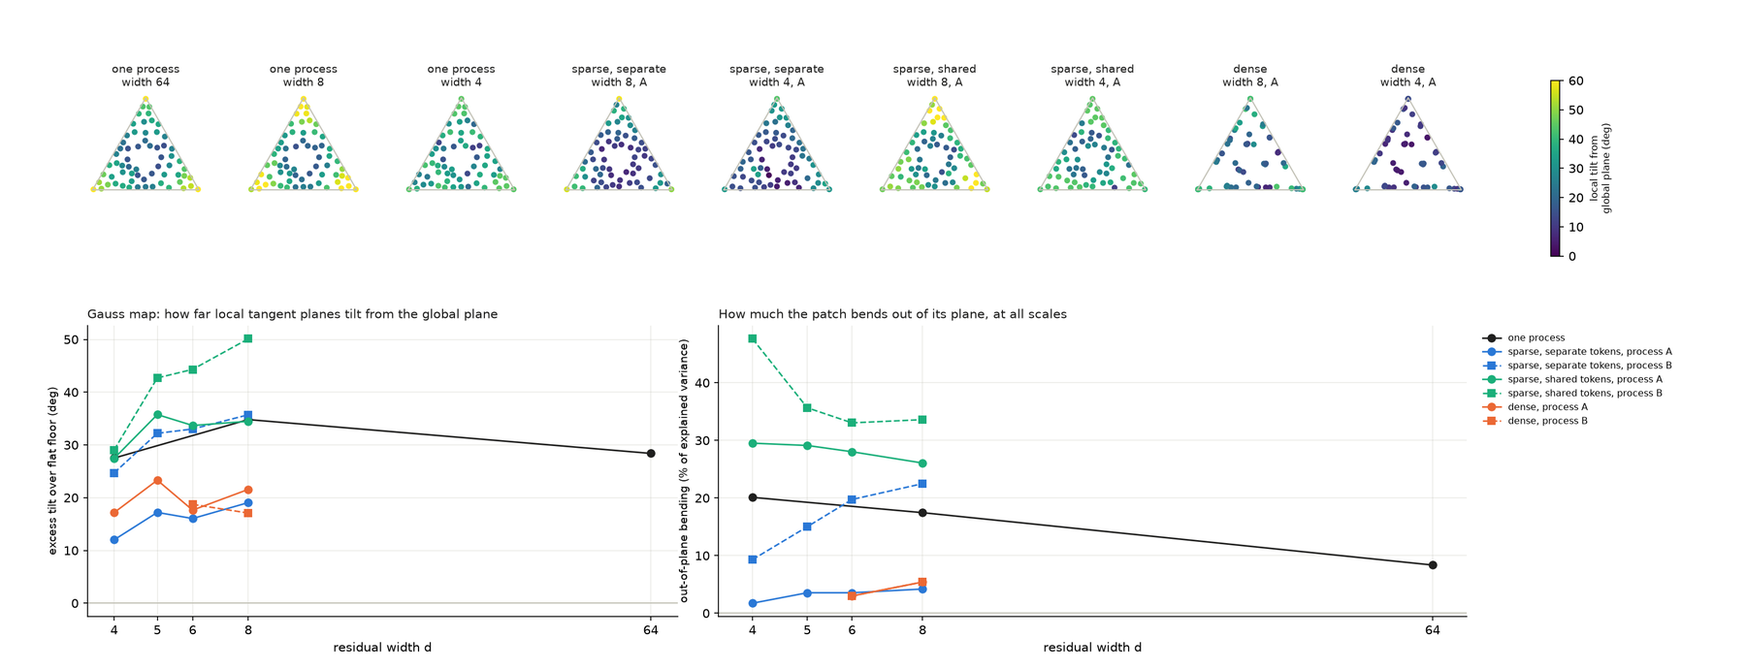
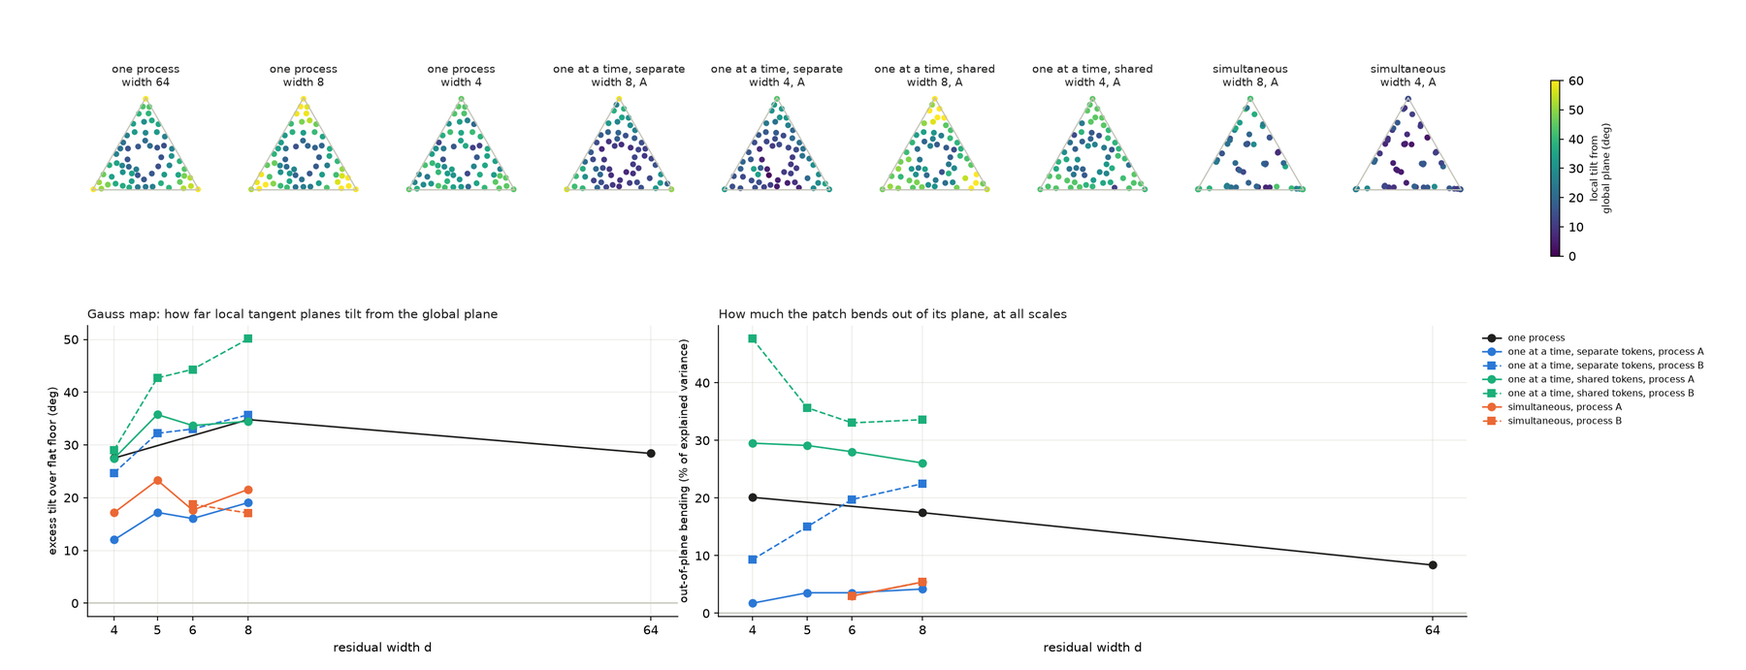
Update project page for revised README and reference experiment
Adopt the README's 'one at a time' and 'simultaneous' terminology, the
reworded introduction, summary and setup, the new comparison with two
theoretical references and its figure, the regenerated figures, and the
shortened 'How this was made'.

Claude-Session: https://claude.ai/code/session_01PqMz1ave7mdXkcTpPwbk6k

diff --git a/_projects/1_squeezing-belief-geometries.md b/_projects/1_squeezing-belief-geometries.md
@@ -7,12 +7,16 @@ importance: 1
 github: https://github.com/KyleJWright/squeezing-belief-geometries
 ---
 
-Reproducing the belief-state simplex of Shai et al. (2024) in a small transformer, then squeezing it: what happens to the
-simplex when the residual stream is too narrow to hold it, and when two processes must share a stream with room for one
-but not both?
+This project starts by reproducing the belief-state simplex of Shai et al. (2024) in a small transformer. As an
+extension, I wanted to see what happens to belief states when the model is squeezed: when the residual stream is too
+narrow to hold one simplex, or must hold two processes with room for only one.
 
-The short answer: **the model keeps what its output needs and, as room runs out, gives up the rest, cheapest first.** The
-limit is set by what the output layer can read, not by how many directions fit in the space.
+The short answer: **the model keeps what its output needs and, as room runs out, gives up the rest, cheapest (in terms of
+next-token cross-entropy loss) first.** The limit is set by what the output layer can read, not by how many directions
+fit in the space.
+
+**Note:** Related questions (superposition, belief-state geometry) are active research topics; this project is a hands-on
+exploration of them in a setting small enough to compute everything exactly.
 
 **Code and full write-up:** [github.com/KyleJWright/squeezing-belief-geometries](https://github.com/KyleJWright/squeezing-belief-geometries).
 The repository README has every table, and
@@ -39,25 +43,31 @@ I'm interested in better understanding how this squeezing works in the setting o
 ## Summary
 
 **The main finding.** The model keeps what the next-token prediction needs and, as room runs out, gives up everything
-else, cheapest first. Each experiment shows a different piece of this:
+else, cheapest first. Here "cheapest" means costing the least next-token loss to give up. This is measured directly for
+the simultaneous case (section 3) and inferred from the loss numbers elsewhere. Each experiment shows a different piece
+of this:
 
 - **Reproduction.** A 4-layer transformer trained on the Mess3 process carries the fractal belief simplex in its final
   residual stream ($$R^2 = 1.00$$ on held-out prefixes); shuffling beliefs before fitting gives $$R^2 = 0.00$$.
 - **One process, too narrow.** Fine fractal detail goes first, at almost no cost in loss. The simplex survives down to
-  width 4 and fails at width 3, where the decoded beliefs collapse onto a curve. The threshold matches what the output
-  layer can read: after LayerNorm, a model of width $$d$$ can produce a family of predictions with at most $$d-2$$
-  parameters, and Mess3 needs 2.
-- **Two processes at once (dense).** As width falls, the model drops one process entirely, and it is the one whose memory
+  width 4 and fails at width 3, where the decoded beliefs collapse onto a curve. The threshold matches the _readout
+  limit_: after the final LayerNorm, the output head of a model of width $$d$$ can produce a family of predictions with at
+  most $$d-2$$ parameters, and Mess3 needs 2.
+- **Two processes simultaneously.** As width falls, the model drops one process entirely, and it is the one whose memory
   is worth ~30 times less in loss. Dropping it costs almost exactly what that memory is worth (0.50% of the optimal loss).
-- **Two processes, one at a time (sparse).** Both survive to width 4. With one shared set of tokens the two beliefs
-  collapse onto a single plane at every width, even with room for two, because the output needs only one prediction, and
-  it costs nothing measurable.
+- **Two processes, one at a time.** Each sequence comes from one process, and both beliefs survive down to width 4. When
+  the processes use separate tokens, their belief patches point in similar directions but sit apart. When they share the
+  same three tokens, the patches lie on top of each other, with the same directions and the same centre, at every width.
+  This holds even at width 8, where there is room to keep them apart. A likely reason is that either way the model must
+  predict a distribution over the same three tokens, so one patch can serve both. Sharing costs nothing measurable: loss
+  stays within 0.15% of optimal down to width 4, the same as with separate tokens.
 - **Which process is running?** With room to spare (width 8) the model also tracks which process is running, as well as an
-  optimal observer can, in one extra direction. Squeezed, that is the first thing to go: at width 4 the model learns it
-  early in training and then gives it up.
-- **Packing was the wrong lens.** I expected the Grassmannian packing problem to describe how the beliefs share the space.
-  It mostly does not: when both beliefs are kept their planes are near-orthogonal, but the readout limit always binds
-  first, and in the sparse case the problem is not a packing problem at all.
+  optimal observer can, in one extra direction: measured against the exact 6-state belief, it carries as much of it as the
+  prediction plus the process posterior would ($$R^2$$ 0.913 for both), never the full belief. Squeezed, that extra
+  direction is the first thing to go: at width 4 the model learns it early in training and then gives it up.
+- **Packing was not the constraint.** I initially expected the Grassmannian packing problem to describe how the beliefs
+  share the space. It mostly does not: when both beliefs are kept their planes are near-orthogonal, but the readout limit
+  always binds first, and in the one-at-a-time case the problem is not a packing problem at all.
 - **The planes are not flat.** Measured with a Gauss map, every belief patch is a wrinkled sheet whose local tangent
   planes tilt 12–50° from its best-fit plane. Linear decoders never notice, because the wrinkles lie outside the plane.
   The planes are the linearly readable summary of curved patches.
@@ -72,8 +82,10 @@ Two lessons from this toy setting may be worth testing more widely.
   narrow model says little about whether the variable matters to the task or can be learned, and a signal found in a wide
   model need not survive in a narrower one. Methods that look for latent knowledge with probes need to allow for this.
 - **What gets superposed or dropped is decided by the readout.** The two behaviours of Elhage et al.'s toy models
-  reappear: dense features force the least valuable one out, sparse ones share directions. But here what decides is what
-  the output needs and what each piece is worth, not how many vectors fit in the space.
+  reappear: their _dense_ features (here, processes running simultaneously) force the least valuable one out, and their
+  _sparse_ ones (one at a time) share directions. But here what decides is what the output needs and what each piece is
+  worth, not how many vectors fit in the space. With separate tokens the one-at-a-time patches are told apart by an offset
+  supplied by the token embeddings; with shared tokens they share one plane outright.
 
 These are small models trained on a toy process; whether the lessons carry over is an open question.
 
@@ -83,22 +95,28 @@ These are small models trained on a toy process; whether the lessons carry over 
 parametrised by $$(x, \alpha)$$. The _belief_ $$\eta$$ is the posterior over hidden states given the tokens seen so far;
 it lives in a triangle, and over all prefixes it traces out a fractal.
 
-**Model.** A pre-LayerNorm transformer with 4 layers, one attention head and context length 10, trained on freshly
-sampled sequences. Only the residual width $$d$$ is varied; width 64 is the size used by Shai et al.
+**Model.** A small transformer: 4 layers, each with one attention head (which lets a position draw on earlier tokens)
+and a small two-layer network (MLP, 256 hidden units). It reads up to 10 tokens. Each position carries a vector of $$d$$
+numbers, the residual stream. Every layer adds to it, and it is normalised by a LayerNorm before each read. Only the width
+$$d$$ is varied; width 64 is the size used by Shai et al.
 
-**Simplex images.** For every distinct prefix, take the final residual stream, fit an affine map to the exact belief on
-half the prefixes, and plot the other half in the triangle, coloured by the true belief. Two numbers go with each image:
+**Training.** Next-token prediction on freshly sampled sequences (256 per step, never repeated), with the Adam optimiser
+and a learning rate that decays from $$10^{-3}$$: 20,000 steps for one process, 15,000 for two.
+
+**Simplex images.** For every distinct prefix, take the final residual stream, before the last LayerNorm, fit an affine
+least-squares regression (with a small penalty) to the exact belief on half the prefixes, and plot the other half in the triangle, coloured by the true belief. Two numbers go with each image:
 
 - **$$R^2$$:** the fraction of belief variance recovered on held-out prefixes.
 - **Beyond last token:** the last token alone predicts about 68% of a Mess3 belief, which gives three coarse blobs. This
   measures how much of the rest, the fine structure that needs memory of earlier tokens, the model captures: 1 is
   perfect, and 0 or below means no memory beyond the last token.
 
-**Two processes.** Process A has $$(x, \alpha) = (0.05, 0.85)$$ and B has $$(0.15, 0.60)$$. In the **sparse** regime each
-sequence comes from one process, chosen at random. It comes in two versions: with **separate tokens** for each process,
+**Two processes.** Process A has $$(x, \alpha) = (0.05, 0.85)$$ and B has $$(0.15, 0.60)$$. In the **one-at-a-time**
+regime each sequence comes from one process, chosen at random. It comes in two versions: with **separate tokens** for each process,
 so every token reveals the process, and with one **shared** set of 3 tokens, so the model must infer the process from the
-statistics of what it has seen. In the **dense** regime both run side by side, and each token is the pair of their
-tokens.
+statistics of what it has seen. In the **simultaneous** regime both run side by side, and each token is the pair of their
+tokens. In the language of Elhage et al. (2022), one at a time corresponds to _sparse_ features and simultaneous to
+_dense_ ones.
 
 All numbers are means over 3 seeds; images are seed 0.
 
@@ -136,47 +154,47 @@ only finitely many beliefs, and nothing forces the network's map from prefixes t
 {% include figure.liquid loading="lazy" path="assets/img/projects/sbg-simplex-pair.png" class="img-fluid rounded z-depth-1" zoomable=true %}
 
 <div class="caption">
-  Two Mess3 processes squeezed together as the residual width shrinks. Left: sparse, one process per sequence. Right:
-  dense, both processes every token.
+  Two Mess3 processes squeezed together as the residual width shrinks. Left: one at a time, one process per sequence.
+  Right: simultaneous, both processes every token.
 </div>
 
-Beyond last token, per process (sparse here means separate tokens; the shared-token version is below):
+Beyond last token, per process (one at a time here means separate tokens; the shared-token version is below):
 
-| Width | Sparse A | Sparse B | Dense A | Dense B |
-| ----- | -------- | -------- | ------- | ------- |
-| 8     | 0.96     | 0.89     | 0.94    | 0.74    |
-| 6     | 0.94     | 0.85     | 0.85    | 0.22    |
-| 5     | 0.94     | 0.69     | 0.80    | −1.70   |
-| 4     | 0.91     | 0.54     | 0.75    | −3.35   |
-| 3     | −0.34    | 0.08     | 0.44    | −3.76   |
+| Width | One at a time: A | One at a time: B | Simultaneous: A | Simultaneous: B |
+| ----- | ---------------- | ---------------- | --------------- | --------------- |
+| 8     | 0.96             | 0.89             | 0.94            | 0.74            |
+| 6     | 0.94             | 0.85             | 0.85            | 0.22            |
+| 5     | 0.94             | 0.69             | 0.80            | −1.70           |
+| 4     | 0.91             | 0.54             | 0.75            | −3.35           |
+| 3     | −0.34            | 0.08             | 0.44            | −3.76           |
 
 Loss above optimum:
 
-| Width                   | 8     | 6     | 5     | 4     | 3    | 2   |
-| ----------------------- | ----- | ----- | ----- | ----- | ---- | --- |
-| Sparse, separate tokens | 0.02% | 0.03% | 0.04% | 0.14% | 1.6% | 90% |
-| Sparse, shared tokens   | 0.01% | 0.03% | 0.05% | 0.15% | 2.0% | 13% |
-| Dense                   | 0.03% | 0.07% | 0.28% | 0.50% | 1.6% | 16% |
+| Width                          | 8     | 6     | 5     | 4     | 3    | 2   |
+| ------------------------------ | ----- | ----- | ----- | ----- | ---- | --- |
+| One at a time, separate tokens | 0.02% | 0.03% | 0.04% | 0.14% | 1.6% | 90% |
+| One at a time, shared tokens   | 0.01% | 0.03% | 0.05% | 0.15% | 2.0% | 13% |
+| Simultaneous                   | 0.03% | 0.07% | 0.28% | 0.50% | 1.6% | 16% |
 
-**Sparse: both survive to width 4,** with B losing detail first, and both fail at width 3, the same threshold as for one
+**One at a time: both survive to width 4,** with B losing detail first, and both fail at width 3, the same threshold as for one
 process. Only one process is active at a time, so the model never needs more than one 2-parameter family of predictions
 at once.
 
-**Dense: one process is given up.** B is already weak at width 6 and gone below it; the large negative values mean the
+**Simultaneous: one process is given up.** B is already weak at width 6 and gone below it; the large negative values mean the
 decoder cannot even recover B's last token, so B is dropped, not kept at low resolution. Two beliefs active at once need
 a 4-parameter family of predictions, so by the same heuristic exact prediction needs $$d \ge 6$$; in practice width 6 is
 not quite enough.
 
 **Why B.** B's history is worth about 30 times less in next-token loss than A's (0.002 against 0.061 nats for memory
-beyond the last token), so it is the cheap one to drop. Dropping B entirely costs 0.50% of the dense optimal loss, and
-the width-4 dense models sit at 0.50% above optimum: they predict A almost perfectly and B not at all.
+beyond the last token), so it is the cheap one to drop. Dropping B entirely costs 0.50% of the simultaneous optimal loss, and
+the width-4 simultaneous models sit at 0.50% above optimum: they predict A almost perfectly and B not at all.
 
-### Sparse with one shared set of tokens
+### One at a time, with one shared set of tokens
 
 {% include figure.liquid loading="lazy" path="assets/img/projects/sbg-simplex-shared.png" class="img-fluid rounded z-depth-1" zoomable=true %}
 
 <div class="caption">
-  Sparse regime with separate tokens per process (left) and one shared set of tokens (right), as the residual width
+  One-at-a-time regime with separate tokens per process (left) and one shared set of tokens (right), as the residual width
   shrinks.
 </div>
 
@@ -205,8 +223,8 @@ relative to each other, and is each patch flat? Everything here is measured in t
 of dimension $$d - 1$$.
 
 The starting hypothesis was the cartoon of superposition: two beliefs squeezed into too little room should arrange their
-planes as an optimal Grassmannian packing, as far apart as the space allows. **This turned out to be mostly the wrong
-lens**, for two reasons: the readout limit binds before packing ever does, and the patches are not flat planes but
+planes as an optimal Grassmannian packing, as far apart as the space allows. **This turned out not to describe what the
+models do**, for two reasons: the readout limit binds before packing ever does, and the patches are not flat planes but
 wrinkled sheets.
 
 ### Overlap between processes
@@ -219,30 +237,30 @@ linear reader, which is how every later layer first reads the stream.
 
 <div class="caption">
   Left: largest overlap between the two learned belief planes against the optimal Grassmannian packing and the Rankin
-  bound, for sparse (separate and shared tokens) and dense models. Right: in the sparse regime, how far apart the two
-  belief patches sit, in units of their spread.
+  bound, for one-at-a-time (separate and shared tokens) and simultaneous models. Right: in the one-at-a-time regime, how
+  far apart the two belief patches sit, in units of their spread.
 </div>
 
-| Width | Optimum | Random planes | Sparse, separate tokens | Offset separation | Sparse, shared tokens | Offset separation | Dense         |
-| ----- | ------- | ------------- | ----------------------- | ----------------- | --------------------- | ----------------- | ------------- |
-| 3     | 1       | 1             | 1.00                    | 2.4               | 1.00                  | 0.05              | –             |
-| 4     | 0.50    | 0.67          | 0.75                    | 5.9               | 0.94                  | 0.17              | –             |
-| 5     | 0       | 0.50          | 0.29                    | 6.0               | 0.905                 | 0.21              | 0.26 (1 seed) |
-| 6     | 0       | 0.40          | 0.14                    | 6.0               | 0.94                  | 0.33              | 0.013         |
-| 8     | 0       | 0.29          | 0.11                    | 5.9               | 0.97                  | 0.38              | 0.020         |
+| Width | Optimum | Random planes | One at a time, separate tokens | Offset separation | One at a time, shared tokens | Offset separation | Simultaneous  |
+| ----- | ------- | ------------- | ------------------------------ | ----------------- | ---------------------------- | ----------------- | ------------- |
+| 3     | 1       | 1             | 1.00                           | 2.4               | 1.00                         | 0.05              | –             |
+| 4     | 0.50    | 0.67          | 0.75                           | 5.9               | 0.94                         | 0.17              | –             |
+| 5     | 0       | 0.50          | 0.29                           | 6.0               | 0.905                        | 0.21              | 0.26 (1 seed) |
+| 6     | 0       | 0.40          | 0.14                           | 6.0               | 0.94                         | 0.33              | 0.013         |
+| 8     | 0       | 0.29          | 0.11                           | 5.9               | 0.97                         | 0.38              | 0.020         |
 
 _Offset separation_ is the distance between the centres of the two processes' patches, divided by their typical
 spread; _random planes_ is the expected overlap of independent random planes, $$2/(d-1)$$.
 
-- **Dense: near-orthogonal, but never constrained.** Whenever both beliefs are kept (all seeds at widths 6 and 8) the
+- **Simultaneous: near-orthogonal, but never constrained.** Whenever both beliefs are kept (all seeds at widths 6 and 8) the
   planes are nearly orthogonal, overlap 0.01–0.02 against 0.3–0.4 for random planes. But orthogonality is easy there: it
-  is possible from $$d \ge 5$$, and the readout bound $$d \ge 6$$ is reached first. At width 5 only one seed keeps B at all
+  is possible from $$d \ge 5$$, and the readout limit $$d \ge 6$$ is reached first. At width 5 only one seed keeps B at all
   (overlap 0.26). Near-orthogonality may also simply be inherited from the optimal logits, whose A and B parts lie in
   orthogonal subspaces; the data cannot tell these apart.
-- **Sparse, separate tokens: an arrangement, not a packing.** Overlaps are far above the optimum, yet both processes
+- **One at a time, separate tokens: an arrangement, not a packing.** Overlaps are far above the optimum, yet both processes
   decode well and loss is within 0.14% of optimal: the patches share directions but sit about 6 spreads apart. That
   separation comes from the token embeddings, not from anything the model had to learn, as the shared-token models show.
-- **Sparse, shared tokens: one plane for two beliefs.** Without separate tokens the offset drops to 0.05–0.4 spreads, and
+- **One at a time, shared tokens: one plane for two beliefs.** Without separate tokens the offset drops to 0.05–0.4 spreads, and
   the planes coincide (overlap 0.9–0.97) at every width, including width 8, where there is room for two. Whichever process
   is running, the prediction is a distribution over the same 3 tokens, and one plane carries it for both, at no
   measurable cost in loss. Section 5 asks whether the model also tracks which process is running.
@@ -269,17 +287,17 @@ that direction is projected away. So the bending is measured directly.
   width (bottom).
 </div>
 
-| Model                      | Excess tilt, width 8 | width 4 | Bending, width 8    | width 4 |
-| -------------------------- | -------------------- | ------- | ------------------- | ------- |
-| One process                | 34.8°                | 27.5°   | 17.5%               | 20.1%   |
-| Sparse, separate tokens, A | 19.1°                | 12.0°   | 4.2%                | 1.7%    |
-| Sparse, separate tokens, B | 35.7°                | 24.7°   | 22.5%               | 9.3%    |
-| Sparse, shared tokens, A   | 34.5°                | 27.4°   | 26.1%               | 29.5%   |
-| Sparse, shared tokens, B   | 50.1°                | 29.1°   | 33.6%               | 47.6%   |
-| Dense, A                   | 21.6°                | 17.2°   | 5.4% (both beliefs) | –       |
+| Model                             | Excess tilt, width 8 | width 4 | Bending, width 8    | width 4 |
+| --------------------------------- | -------------------- | ------- | ------------------- | ------- |
+| One process                       | 34.8°                | 27.5°   | 17.5%               | 20.1%   |
+| One at a time, separate tokens, A | 19.1°                | 12.0°   | 4.2%                | 1.7%    |
+| One at a time, separate tokens, B | 35.7°                | 24.7°   | 22.5%               | 9.3%    |
+| One at a time, shared tokens, A   | 34.5°                | 27.4°   | 26.1%               | 29.5%   |
+| One at a time, shared tokens, B   | 50.1°                | 29.1°   | 33.6%               | 47.6%   |
+| Simultaneous, A                   | 21.6°                | 17.2°   | 5.4% (both beliefs) | –       |
 
-(Excess tilt is the mean tilt above the flat floor, which is about 2–7°. Bending is undefined for dense models of width 5
-or less, where the two planes fill the readable space.)
+(Excess tilt is the mean tilt above the flat floor, which is about 2–7°. Bending is undefined for simultaneous models of width
+5 or less, where the two planes fill the readable space.)
 
 - **No patch is flat.** Local tangent planes tilt 12–50° beyond the flat floor, in every model.
 - **Wrinkled, not bowed.** Quadratic terms in the belief capture only a few percent of the activation variance, far less
@@ -313,7 +331,8 @@ prediction is worth far more.
 
 ### Does it track the process?
 
-A ridge probe is fitted from the residual stream to $$\pi$$ at every layer, on the shared-token models of section 3.
+A ridge probe, an affine least-squares regression with a small penalty on the size of its coefficients (chosen on held-out
+data), is fitted from the residual stream to $$\pi$$ at every layer, on the shared-token models of section 3.
 
 {% include figure.liquid loading="lazy" path="assets/img/projects/sbg-probe.png" class="img-fluid rounded z-depth-1" zoomable=true %}
 
@@ -334,7 +353,7 @@ shared belief plane plus a separate direction for $$\pi$$**, as far as linear pr
 low-dimensional end, and not two separate belief models.
 
 As the stream narrows, process tracking is the first thing to go. Loss stays within 0.15% of optimal down to width 4,
-but the probe falls to $$R^2 = 0.12$$ and its accuracy stalls after a few tokens. This fits the readout argument of
+but the probe falls to $$R^2 = 0.12$$ and its accuracy stalls after a few tokens. This fits the readout limit of
 section 2: the output head has $$d - 2$$ dimensions, the prediction needs 2, and only what is left can carry $$\pi$$. At
 width 4 nothing is left. Dropping $$\pi$$ costs little: the optimal prediction already mixes the two processes'
 predictions in proportion to $$\pi$$, so the posterior is folded into the prediction.
@@ -343,8 +362,8 @@ predictions in proportion to $$\pi$$, so the posterior is folded into the predic
 
 Several settings learn a merged description first and split it later (causal-state splitting, deterministic annealing,
 stagewise learning in deep networks), which suggests a hypothesis: the shared-token model first learns one averaged
-process, then splits into two. Shared-token models at widths 8 and 4 were retrained with snapshots through training, and
-every snapshot was analysed in the same way.
+process, then splits into two. Shared-token models at widths 8 and 4 (3 seeds each) were retrained with
+19 snapshots between steps 25 and 15,000, and every snapshot was analysed in the same way.
 
 {% include figure.liquid loading="lazy" path="assets/img/projects/sbg-develop.png" class="img-fluid rounded z-depth-1" zoomable=true %}
 
@@ -373,35 +392,70 @@ The hypothesis is not borne out: the network never splits into two independent m
   usable dimensions. A feature is learned and then squeezed out by a more valuable one.
 - **No sharp transition.** Loss falls smoothly at this snapshot resolution; nothing looks like a sudden phase change.
 
+### Comparison with two theoretical references
+
+The shared-token data is one hidden Markov model with 6 hidden states, (process, state), so two exact reference points can
+be computed.
+
+- **The joint belief.** The exact posterior over the 6 states is the best possible belief state. A linear probe from the
+  residual stream to it measures how much of it a model carries. To read that number, the same probe is fitted from
+  idealised representations that hold only part of it: the next-token prediction alone, and the prediction plus $$\pi$$.
+- **The best single averaged model.** A single 3-state hidden Markov model fitted to the mixed data by maximum likelihood
+  (Baum–Welch). Its loss is what it costs to treat the two processes as one.
+
+{% include figure.liquid loading="lazy" path="assets/img/projects/sbg-reference.png" class="img-fluid rounded z-depth-1" zoomable=true %}
+
+<div class="caption">
+  The joint belief carried by the trained models against the idealised references (left), training loss against the
+  best single averaged model (middle), and probe R² over training (right).
+</div>
+
+| Representation                  | Probe $$R^2$$ for the joint belief |
+| ------------------------------- | ---------------------------------- |
+| Idealised: prediction only      | 0.734                              |
+| Idealised: prediction + $$\pi$$ | 0.913                              |
+| Trained model, width 4          | 0.742                              |
+| Trained model, width 5          | 0.800                              |
+| Trained model, width 6          | 0.857                              |
+| Trained model, width 8          | 0.913                              |
+
+(Final layer, mean over 3 seeds.)
+
+- **Width decides how much of the joint belief is kept.** At width 4 the model carries about what the prediction alone
+  carries; at width 8 it matches the prediction plus $$\pi$$; widths 5 and 6 lie in between. No width carries the full
+  joint belief, which would give $$R^2$$ near 1. The final layer holds a projection of the joint belief that grows from
+  the prediction to the prediction plus $$\pi$$ as room allows.
+- **No averaged stage.** The best single 3-state model is 0.80% above the optimum (using only the last token: 4.1%; a
+  uniform guess: 13.2%). Training passes through that level without pausing: width 8 drops below it by step 300, width 4
+  by step 800, with no plateau. There is no phase in which the network behaves like one averaged process, consistent with
+  it never splitting into two.
+
 ## Limitations
 
 - **Width changes more than storage.** Shrinking the residual width shrinks the space the belief is stored in, but also
   the space the network computes the belief update in. A failure at width 3 could come from storage, computation or
   optimisation; the large spread between seeds at width 3 suggests optimisation plays a part.
-- **The readout bound is a heuristic at finite context.** It is a theorem only in the long-context limit, and depends on
+- **The readout limit is a heuristic at finite context.** It is a theorem only in the long-context limit, and depends on
   the fractal's Hausdorff dimension, which is not computed here.
 - **Linear probes only.** At small widths a belief may still be present but encoded nonlinearly, which a linear probe
   would miss. This matters for the link to superposition, which is about features recovered nonlinearly despite
   interference.
-- **Training dynamics are sampled coarsely.** The development run has 3 seeds, two widths and a limited number of
-  snapshots; a brief transition between snapshots would be missed.
+- **Training dynamics are sampled coarsely.** The development run has 19 snapshots, 3 seeds and two widths; a brief transition between snapshots would be missed.
 - **Curvature is measured on averages.** The Gauss map and bending use averages over nearby beliefs and a finite
   neighbourhood, so wrinkles finer than the neighbourhood are not resolved.
-- **The packing comparison is never constrained.** Dense models keep both beliefs only where orthogonal planes are
+- **The packing comparison is never constrained.** Simultaneous models keep both beliefs only where orthogonal planes are
   possible, and their near-orthogonality may be inherited from the structure of the optimal logits.
 - **One process pair.** A and B differ a lot in how much their memory is worth, which decides which one is dropped. A
   symmetric pair would test whether the model then shares the cost or still picks one.
 - **Images are sensitive to cheap structure.** Width 8 loses visible fractal detail at no measurable cost in loss. The
   pictures magnify structure that is worth very little to the loss.
-- **Small scale.** Three seeds, one architecture, fixed training lengths, final layer only. The dense comparison with
-  packing rests on 7 models that keep both beliefs.
+- **Small scale.** Three seeds, one architecture, fixed training lengths, final layer only. The simultaneous comparison
+  with packing rests on 7 models that keep both beliefs.
 
 ## How this was made
 
 I set the questions and the direction, ran every experiment on my laptop, checked the mathematics and the numbers, and
 decided what to keep, cut and follow up. The code and first drafts of the text and derivations were written with Claude
-(Anthropic). Several turns in the project came from that checking and questioning: asking whether the softmax distorts
-the linear picture, which space the angles should be measured in, whether separate tokens were giving the process away,
-and whether a model of two processes starts as one and later splits in two.
+(Anthropic). Several turns in the project came from that checking and questioning.
 
-This project grew out of the Iliad Intensive.
+This project grew out of material I was exposed to at the Iliad Intensive.
